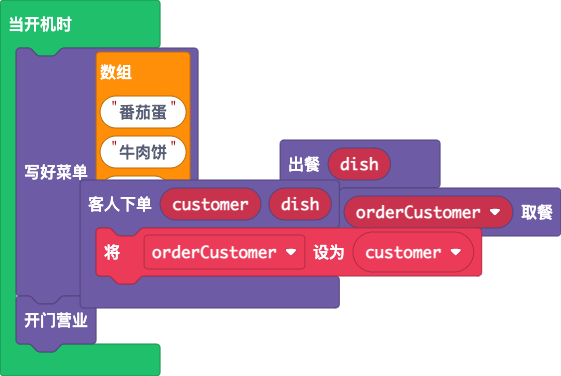
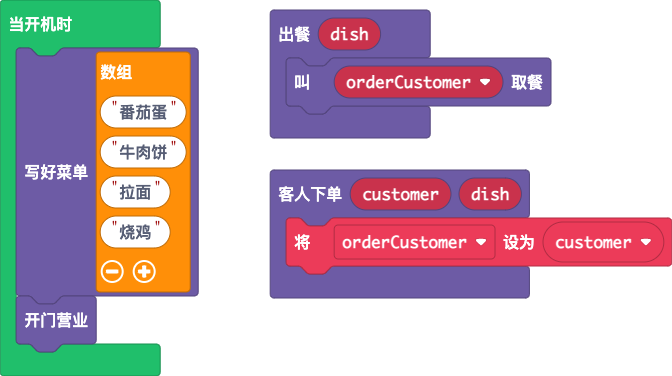
先判断菜对不对再判断先后

diff --git a/restaurant.ts b/restaurant.ts
@@ -1,27 +1,25 @@
-//%icon="\u2303"
 //%block="餐厅的故事"
+//%weight=100 icon="\u2303"
 namespace restaurant {
-
 
     const ORDER = "ORDER"
     const ORDER_NO = "ORDER_NO"
 
-
-    let customerOrderHandler: (customer: Sprite, dish:string)=>void = null
+    let customerOrderHandler: (customer: Sprite, dish: string) => void = null
     let dishReadyHandler: (dish: string) => void = null
-    
-    let waitStaff:Sprite = null
-    let cookStaff:Sprite = null
+
+    let waitStaff: Sprite = null
+    let cookStaff: Sprite = null
     let MENU = ["西红柿炒蛋", "蛋炒饭", "土豆牛肉"]
-    const CUSTOMER_IMAGES :Image[]= []
-    
+    const CUSTOMER_IMAGES: Image[] = []
+
     let orderNo = 1
 
-    const waitingForOrderCustomers:Sprite[] = []
-    const waitingForDishesCustomers:Sprite[] = []
-    const customerOrders :string[]= []
+    const waitingForOrderCustomers: Sprite[] = []
+    const waitingForDishesCustomers: Sprite[] = []
+    const customerOrders: string[] = []
 
-    function randomPick<T>(collection : T[]):T {
+    function randomPick<T>(collection: T[]): T {
         return collection[randint(0, collection.length - 1)]
     }
 
@@ -29,10 +27,10 @@ namespace restaurant {
         return collection.removeAt(randint(0, collection.length - 1))
     }
 
-    function findPlaceInQueueFor(newCustomer : Sprite) {
+    function findPlaceInQueueFor(newCustomer: Sprite) {
 
         if (waitingForOrderCustomers.length == 0) {
-            story.spriteMoveToLocation(newCustomer, 40,  72, 50)
+            story.spriteMoveToLocation(newCustomer, 40, 72, 50)
         } else {
             let tail = waitingForOrderCustomers[waitingForOrderCustomers.length - 1]
             story.spriteMoveToLocation(newCustomer, 40, tail.y + 16, 50)
@@ -56,7 +54,7 @@ namespace restaurant {
 
         story.startCutsceneOf(1001, () => {
             let dish = randomPick(MENU)
-            
+
             sprites.setDataString(orderingCustomer, ORDER, dish)
             sprites.setDataNumber(orderingCustomer, ORDER_NO, orderNo)
             story.spriteSayText(waitStaff, "要吃点什么?", 15, 1, story.TextSpeed.VeryFast)
@@ -70,7 +68,7 @@ namespace restaurant {
             story.spriteMoveToLocation(orderingCustomer, 120 + randint(-32, 32), 88 + randint(-16, 16), 80)
 
             customerOrders.push(dish)
-            
+
             if (customerOrderHandler != null) {
                 customerOrderHandler(orderingCustomer, dish)
             }
@@ -83,24 +81,19 @@ namespace restaurant {
 
             orderingLock = false
         })
-
-
     }
-
 
     function customerEnter() {
         let newCustomer = sprites.create(randomPick(CUSTOMER_IMAGES));
         tiles.placeOnTile(newCustomer, tiles.getTileLocation(2, 7))
 
         let dish = MENU[randint(0, MENU.length)]
-        
+
         findPlaceInQueueFor(newCustomer)
         waitingForOrderCustomers.push(newCustomer)
-        
-        
     }
 
-    function nextCustomerFor(dish:string) :Sprite{
+    function nextCustomerFor(dish: string): Sprite {
         for (let c of waitingForDishesCustomers) {
             if (sprites.readDataString(c, ORDER) == dish) {
                 waitingForDishesCustomers.removeElement(c)
@@ -118,12 +111,12 @@ namespace restaurant {
         }
 
         dishReadyLock = true
-        
-        story.startCutsceneOf(1000, ()=>{
+
+        story.startCutsceneOf(1000, () => {
             let dish = randomPop(customerOrders);
-            story.startCutscene(()=>{
+            story.startCutscene(() => {
                 story.spriteSayText(cookStaff, "开始做" + dish)
-                
+
                 let randtime = randint(5, 8)
                 let s = ""
                 for (let i = 0; i < randtime; i++) {
@@ -138,20 +131,11 @@ namespace restaurant {
                 if (dishReadyHandler == null) {
                     story.spriteSayText(cookStaff, "没人来取")
                     story.spriteSayText(cookStaff, "扔了")
-                     
-                }  else {
+
+                } else {
                     dishReadyHandler(dish)
                     story.spriteSayText(cookStaff, "请" + sprites.readDataNumber(userJudgeCustomer, ORDER_NO) + "号客人取餐")
                     story.spriteMoveToLocation(userJudgeCustomer, 120, 72, 80)
-
-                    let nextCustomer =  nextCustomerFor(dish)
-                    if (nextCustomer != userJudgeCustomer) {
-                        story.spriteSayText(nextCustomer, "!!")
-                        story.spriteMoveToLocation(nextCustomer, 108, 72, 96)
-                        story.spriteSayText(nextCustomer, "我先来的啊")
-                        story.spriteSayText(nextCustomer, "怎么搞的")
-                        game.over(false)
-                    }
 
 
                     let orderedDish = sprites.readDataString(userJudgeCustomer, ORDER)
@@ -161,20 +145,23 @@ namespace restaurant {
                         game.over(false)
                     }
 
+                    let nextCustomer = nextCustomerFor(dish)
+                    if (nextCustomer != userJudgeCustomer) {
+                        story.spriteSayText(nextCustomer, "!!")
+                        story.spriteMoveToLocation(nextCustomer, 108, 72, 96)
+                        story.spriteSayText(nextCustomer, "我先来的啊")
+                        story.spriteSayText(nextCustomer, "怎么搞的")
+                        game.over(false)
+                    }
 
                     story.spriteSayText(userJudgeCustomer, "谢谢")
                     story.spriteMoveToLocation(userJudgeCustomer, 176, userJudgeCustomer.y, 100)
                     userJudgeCustomer.destroy()
                     info.changeScoreBy(1)
-            }
-
+                }
                 dishReadyLock = false
-
             })
-            
         })
-
-
     }
 
 
@@ -182,13 +169,12 @@ namespace restaurant {
     //% group="准备营业"
     //% block="开门营业"
     export function init() {
-        
+
         CUSTOMER_IMAGES.push(assets.image`customer1`)
         CUSTOMER_IMAGES.push(assets.image`customer2`)
         CUSTOMER_IMAGES.push(assets.image`customer3`)
         CUSTOMER_IMAGES.push(assets.image`customer4`)
         CUSTOMER_IMAGES.push(assets.image`customer5`)
-       
 
         tiles.setTilemap(assets.tilemap`default`)
 
@@ -210,7 +196,7 @@ namespace restaurant {
             . . . . c b 5 5 5 5 b c . . . .
             . . . . . f f f f f f . . . . .
         `)
-        tiles.placeOnTile(waitStaff, tiles.getTileLocation(2,2))
+        tiles.placeOnTile(waitStaff, tiles.getTileLocation(2, 2))
 
         cookStaff = sprites.create(img`
             . . . . 9 9 9 9 9 9 9 9 9 . . .
@@ -232,8 +218,8 @@ namespace restaurant {
         `)
         tiles.placeOnTile(cookStaff, tiles.getTileLocation(7, 2))
 
-        forever(()=>{
-            if (waitingForOrderCustomers.length<4 && Math.percentChance(40)) {
+        forever(() => {
+            if (waitingForOrderCustomers.length < 4 && Math.percentChance(40)) {
                 customerEnter()
             }
             pause(1000)
@@ -245,53 +231,46 @@ namespace restaurant {
             pause(10)
         })
 
-        forever(()=> {
+        forever(() => {
             dishReady()
             pause(10)
         })
     }
 
-
-
-
     //% blockId=on_cusomter_order
     //% block="客人下单"
     //% group="点单"
     //% draggableParameters
-    export function onCustomerOrder(cb: (customer:Sprite, dish : string) => void) {
+    export function onCustomerOrder(cb: (customer: Sprite, dish: string) => void) {
         customerOrderHandler = cb
     }
 
     //% blockId=prepare_menu
     //% block="写好菜单 %menu"
     //% group="准备营业"
-    export function prepareMenu(menu : string[]) {
+    export function prepareMenu(menu: string[]) {
         if (menu.length < 3) {
             game.splash("就这么几道菜还学人开餐厅")
             game.splash("至少准备三道菜啊")
             game.over(false)
         }
-
         MENU = menu
     }
-
 
     //% blockId=on_dish_ready
     //% block="出餐"
     //% group="厨房"
     //% draggableParameters
-    export function onDishReady(cb:(dish:string) => void) {
+    export function onDishReady(cb: (dish: string) => void) {
         dishReadyHandler = cb;
     }
 
-    let userJudgeCustomer :Sprite = null
+    let userJudgeCustomer: Sprite = null
 
     //% blockId=call_customer_to_collect
     //% block="叫 $customer=variables_get(mySprite) 取餐"
     //% group="厨房"
-    export function callCustomerToCollect(customer : Sprite) {
+    export function callCustomerToCollect(customer: Sprite) {
         userJudgeCustomer = customer
     }
-
-    
 }
